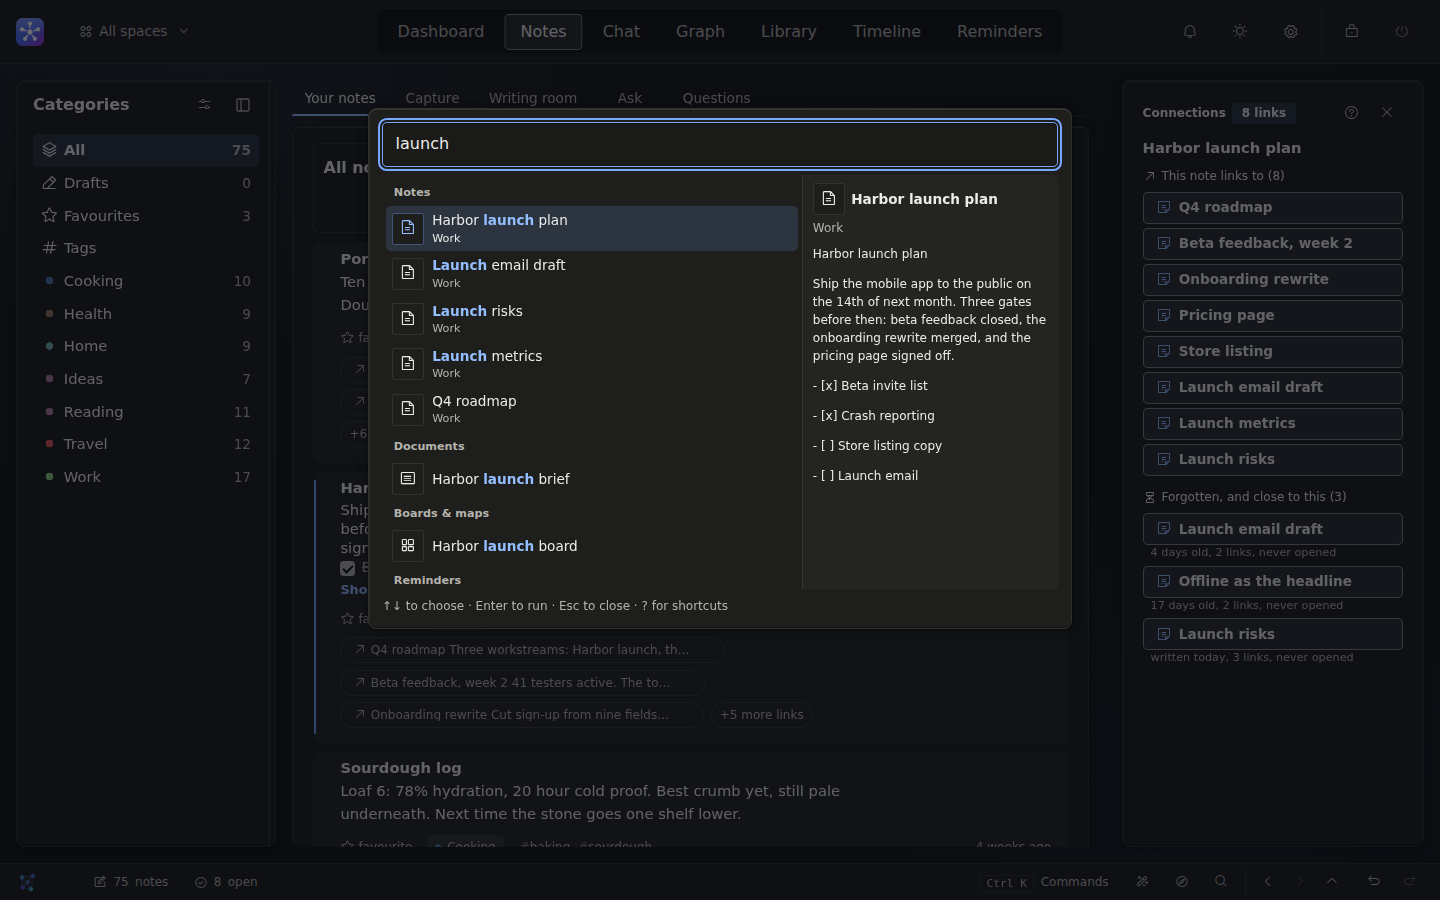
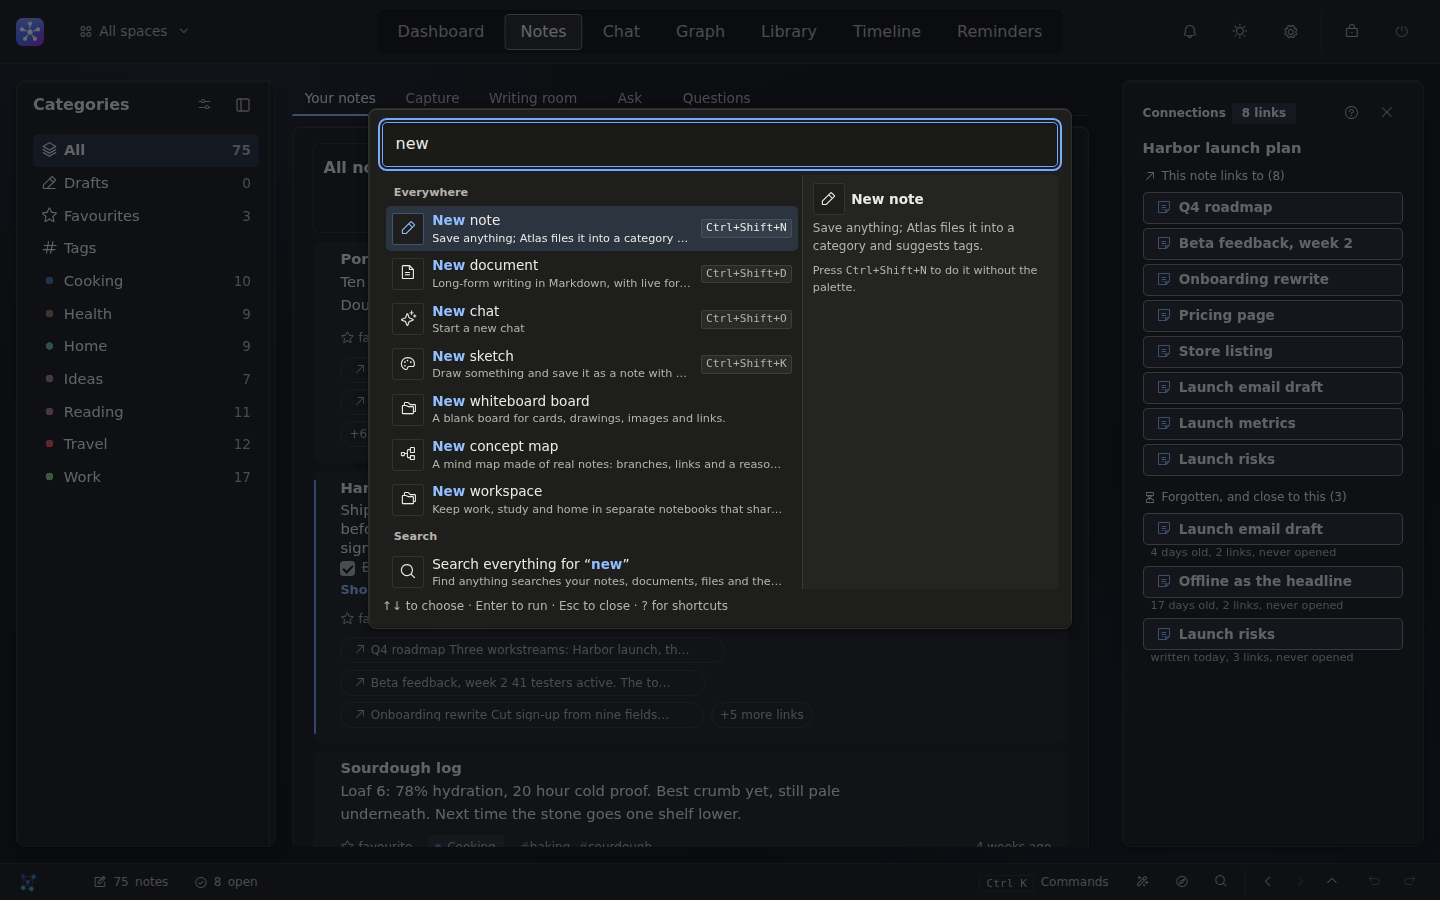
Screenshots: the palette retaken as commands and places, with the hand-off to Find anything (INBOX 666)
Claude-Session: https://claude.ai/code/session_01UvMLdXt2CL6M5pkTvwyV17

diff --git a/docs/index.html b/docs/index.html
@@ -862,7 +862,7 @@
           <article class="tile t-s2">
             <a class="shot" href="screenshots/palette.png" data-caption="The command palette: one box for every command and place, with a last row that searches everything.">
               <img src="screenshots/palette.png" width="1440" height="900" loading="lazy" decoding="async"
-                   alt="The command palette: the word launch matching commands, with a preview of the chosen row.">
+                   alt="The command palette: the word new matching the create commands, a preview of the chosen one, and a last row that searches everything.">
             </a>
             <div class="tile-text"><h4>Command palette</h4><p><span class="keys"><kbd>Ctrl</kbd>+<kbd>K</kbd></span> runs any command or goes to any place.</p></div>
           </article>

diff --git a/scratchpad/ui-sweeps/readmeshots.js b/scratchpad/ui-sweeps/readmeshots.js
@@ -265,8 +265,9 @@ async function stage(page, shot) {
     case 'palette':
       await page.evaluate(() => openPalette());
       await page.waitForTimeout(700);
-      //: Typed: one word reaching commands, notes, a board and a document.
-      await page.fill('#palette-input', 'launch').catch(() => {});
+      //: Typed: the palette is commands and places (INBOX 666), so a word
+      //: that reaches several commands, and the hand-off to Find anything.
+      await page.fill('#palette-input', 'new').catch(() => {});
       await page.waitForTimeout(1500);
       break;
     case 'features':

diff --git a/README.md b/README.md
@@ -229,7 +229,7 @@ Captured from the app in the dark theme at 1440 by 900.
 </p>
 
 <p align="center">
-  <img src="docs/screenshots/palette.png" alt="The command palette: the word launch matching commands, with a preview of the chosen row" width="850">
+  <img src="docs/screenshots/palette.png" alt="The command palette: the word new matching the create commands, a preview of the chosen one, and a last row that searches everything" width="850">
   <br><sub><b>Command palette</b>: Ctrl/⌘-K runs a command or goes to a place, and hands a search to Find anything</sub>
 </p>
 
